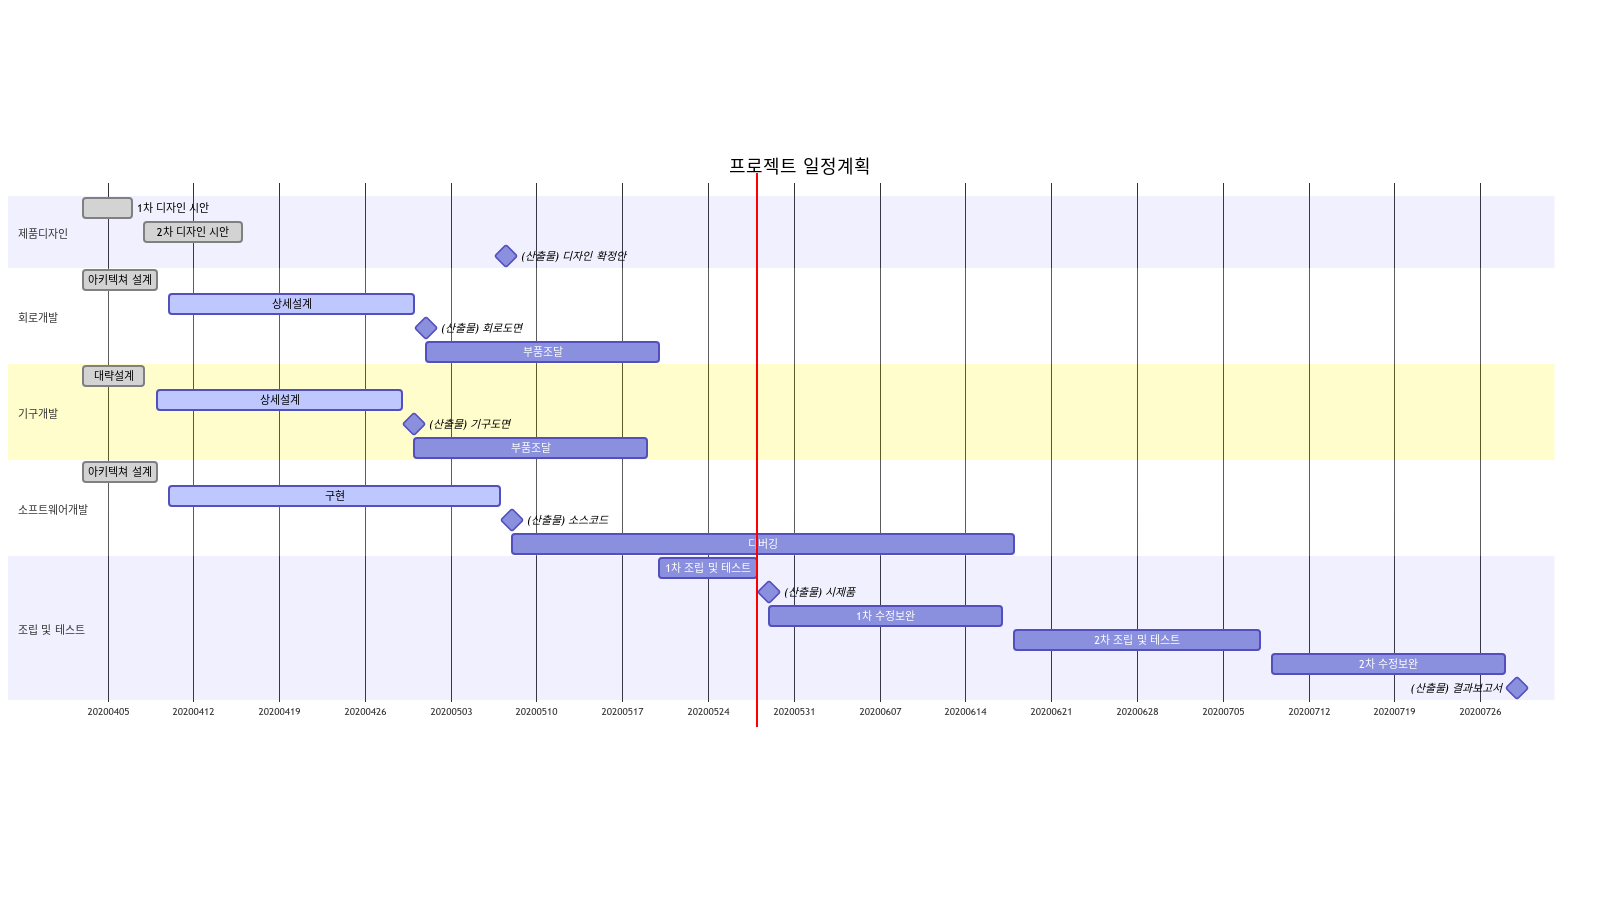
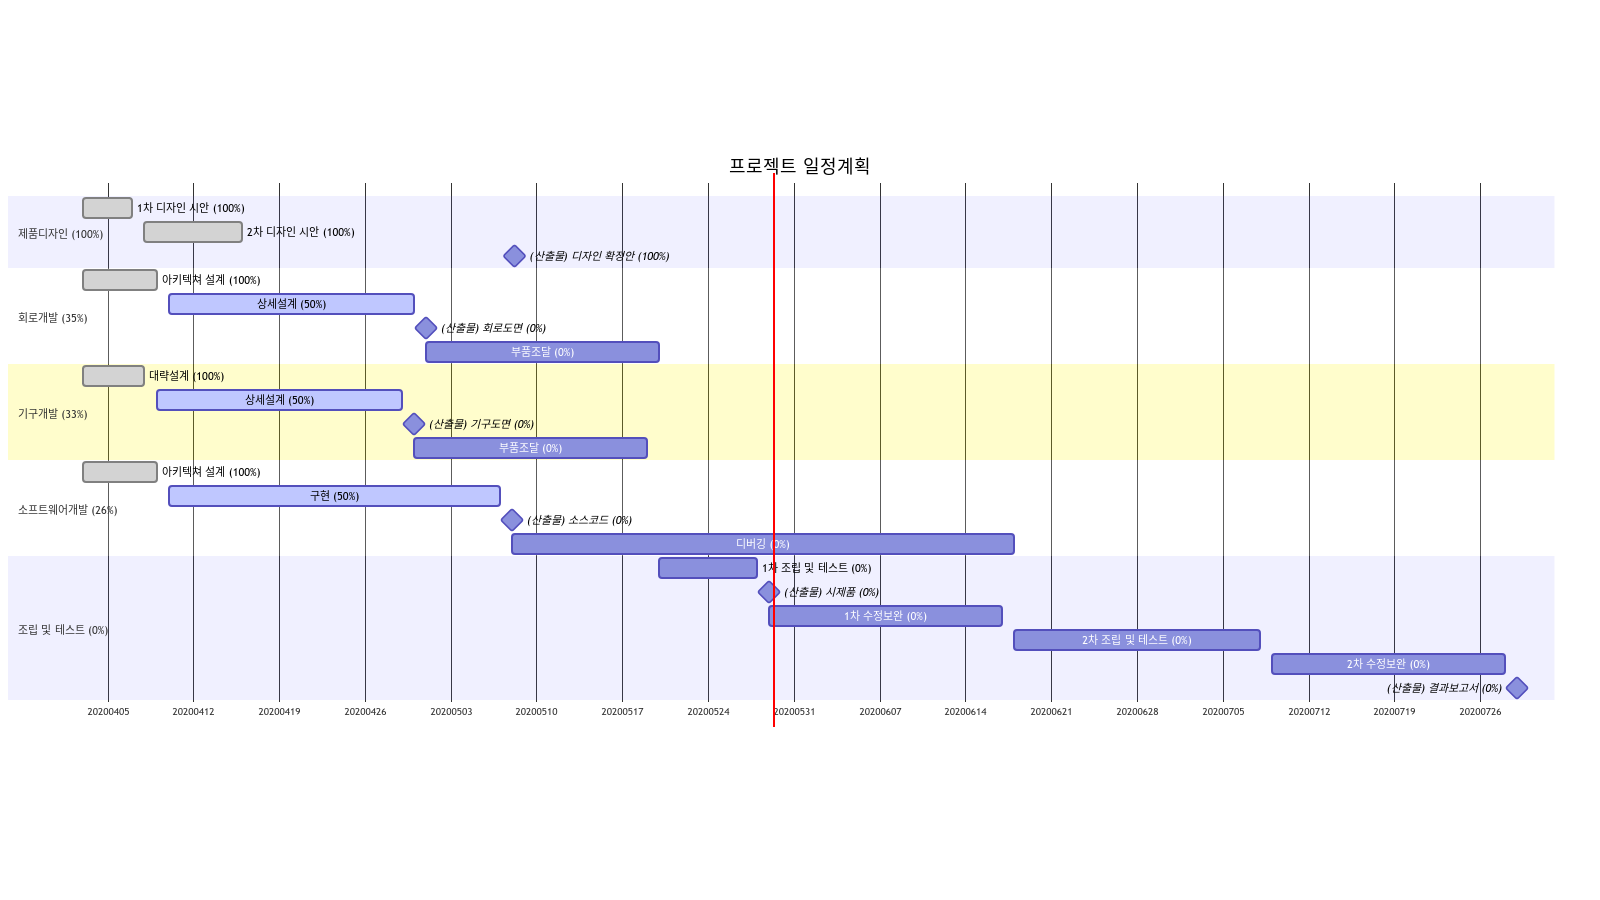
Add to representate STAUS(%) information

diff --git a/gantt.html b/gantt.html
@@ -1,36 +1,36 @@
 <html>
-<script src='https://cdnjs.cloudflare.com/ajax/libs/mermaid/8.5.0/mermaid.min.js'></script>
+<script src='https://cdnjs.cloudflare.com/ajax/libs/mermaid/8.5.1/mermaid.min.js'></script>
 <script>mermaid.initialize({startOnLoad:true});</script>
 <div class='mermaid'>
 gantt
  title 프로젝트 일정계획
  dateFormat YYYY-MM-DD
  axisFormat %Y%m%d
- section 제품디자인
-    1차 디자인 시안 : done,2020-04-03,2020-04-07
-    2차 디자인 시안 : done,2020-04-08,2020-04-16
-    (산출물) 디자인 확정안 : milestone,2020-04-17,done,2020-04-17
- section 회로개발
-    아키텍쳐 설계 : done,2020-04-03,2020-04-09
-    상세설계 : active,2020-04-10,2020-04-30
-    (산출물) 회로도면 : milestone,2020-05-01,2020-05-01
-    부품조달 : 2020-05-01,2020-05-20
- section 기구개발
-    대략설계 : done,2020-04-03,2020-04-08
-    상세설계 : active,2020-04-09,2020-04-29
-    (산출물) 기구도면 : milestone,2020-04-30,2020-04-30
-    부품조달 : 2020-04-30,2020-05-19
- section 소프트웨어개발
-    아키텍쳐 설계 : done,2020-04-03,2020-04-09
-    구현 : active,2020-04-10,2020-05-07
-    (산출물) 소스코드 : milestone,2020-05-08,2020-05-08
-    디버깅 : 2020-05-08,2020-06-18
- section 조립 및 테스트
-    1차 조립 및 테스트 : 2020-05-20,2020-05-28
-    (산출물) 시제품 : milestone,2020-05-29,2020-05-29
-    1차 수정보완 : 2020-05-29,2020-06-17
-    2차 조립 및 테스트 : 2020-06-18,2020-07-08
-    2차 수정보완 : 2020-07-09,2020-07-28
-    (산출물) 결과보고서 : milestone,2020-07-29,2020-07-29
+ section 제품디자인 (100%)
+    1차 디자인 시안 (100%) : done,2020-04-03,2020-04-07
+    2차 디자인 시안 (100%) : done,2020-04-08,2020-04-16
+    (산출물) 디자인 확정안 (100%) : milestone,2020-04-17,done,2020-04-17
+ section 회로개발 (35%)
+    아키텍쳐 설계 (100%) : done,2020-04-03,2020-04-09
+    상세설계 (50%) : active,2020-04-10,2020-04-30
+    (산출물) 회로도면 (0%) : milestone,2020-05-01,2020-05-01
+    부품조달 (0%) : 2020-05-01,2020-05-20
+ section 기구개발 (33%)
+    대략설계 (100%) : done,2020-04-03,2020-04-08
+    상세설계 (50%) : active,2020-04-09,2020-04-29
+    (산출물) 기구도면 (0%) : milestone,2020-04-30,2020-04-30
+    부품조달 (0%) : 2020-04-30,2020-05-19
+ section 소프트웨어개발 (26%)
+    아키텍쳐 설계 (100%) : done,2020-04-03,2020-04-09
+    구현 (50%) : active,2020-04-10,2020-05-07
+    (산출물) 소스코드 (0%) : milestone,2020-05-08,2020-05-08
+    디버깅 (0%) : 2020-05-08,2020-06-18
+ section 조립 및 테스트 (0%)
+    1차 조립 및 테스트 (0%) : 2020-05-20,2020-05-28
+    (산출물) 시제품 (0%) : milestone,2020-05-29,2020-05-29
+    1차 수정보완 (0%) : 2020-05-29,2020-06-17
+    2차 조립 및 테스트 (0%) : 2020-06-18,2020-07-08
+    2차 수정보완 (0%) : 2020-07-09,2020-07-28
+    (산출물) 결과보고서 (0%) : milestone,2020-07-29,2020-07-29
 </div>
 </html>

diff --git a/g2m.py b/g2m.py
@@ -1,7 +1,7 @@
 # -*- coding: utf-8 -*-
 """
 G2M : Ganttproject csv file to Mermaid html Converter
-V20200501
+V20200529
 by Dymaxion.kim@gmail.com
 """
 
@@ -38,10 +38,14 @@ for index in range(0,y):
     elif Data[0][index]=="완료":
         STATUS=index
 
+# Combine NAME+STATUS
+for index in range(1,x):
+    Data[index][NAME] = Data[index][NAME] + ' (' + Data[index][STATUS] + '%)'
+
 # Make Content to output
 Content = []
 Content.append("<html>")
-Content.append("<script src='https://cdnjs.cloudflare.com/ajax/libs/mermaid/8.5.0/mermaid.min.js'></script>")
+Content.append("<script src='https://cdnjs.cloudflare.com/ajax/libs/mermaid/8.5.1/mermaid.min.js'></script>")
 #Content.append("<script src='mermaid.min.js'></script>")
 Content.append("<script>mermaid.initialize({startOnLoad:true});</script>")
 Content.append("<div class='mermaid'>")
